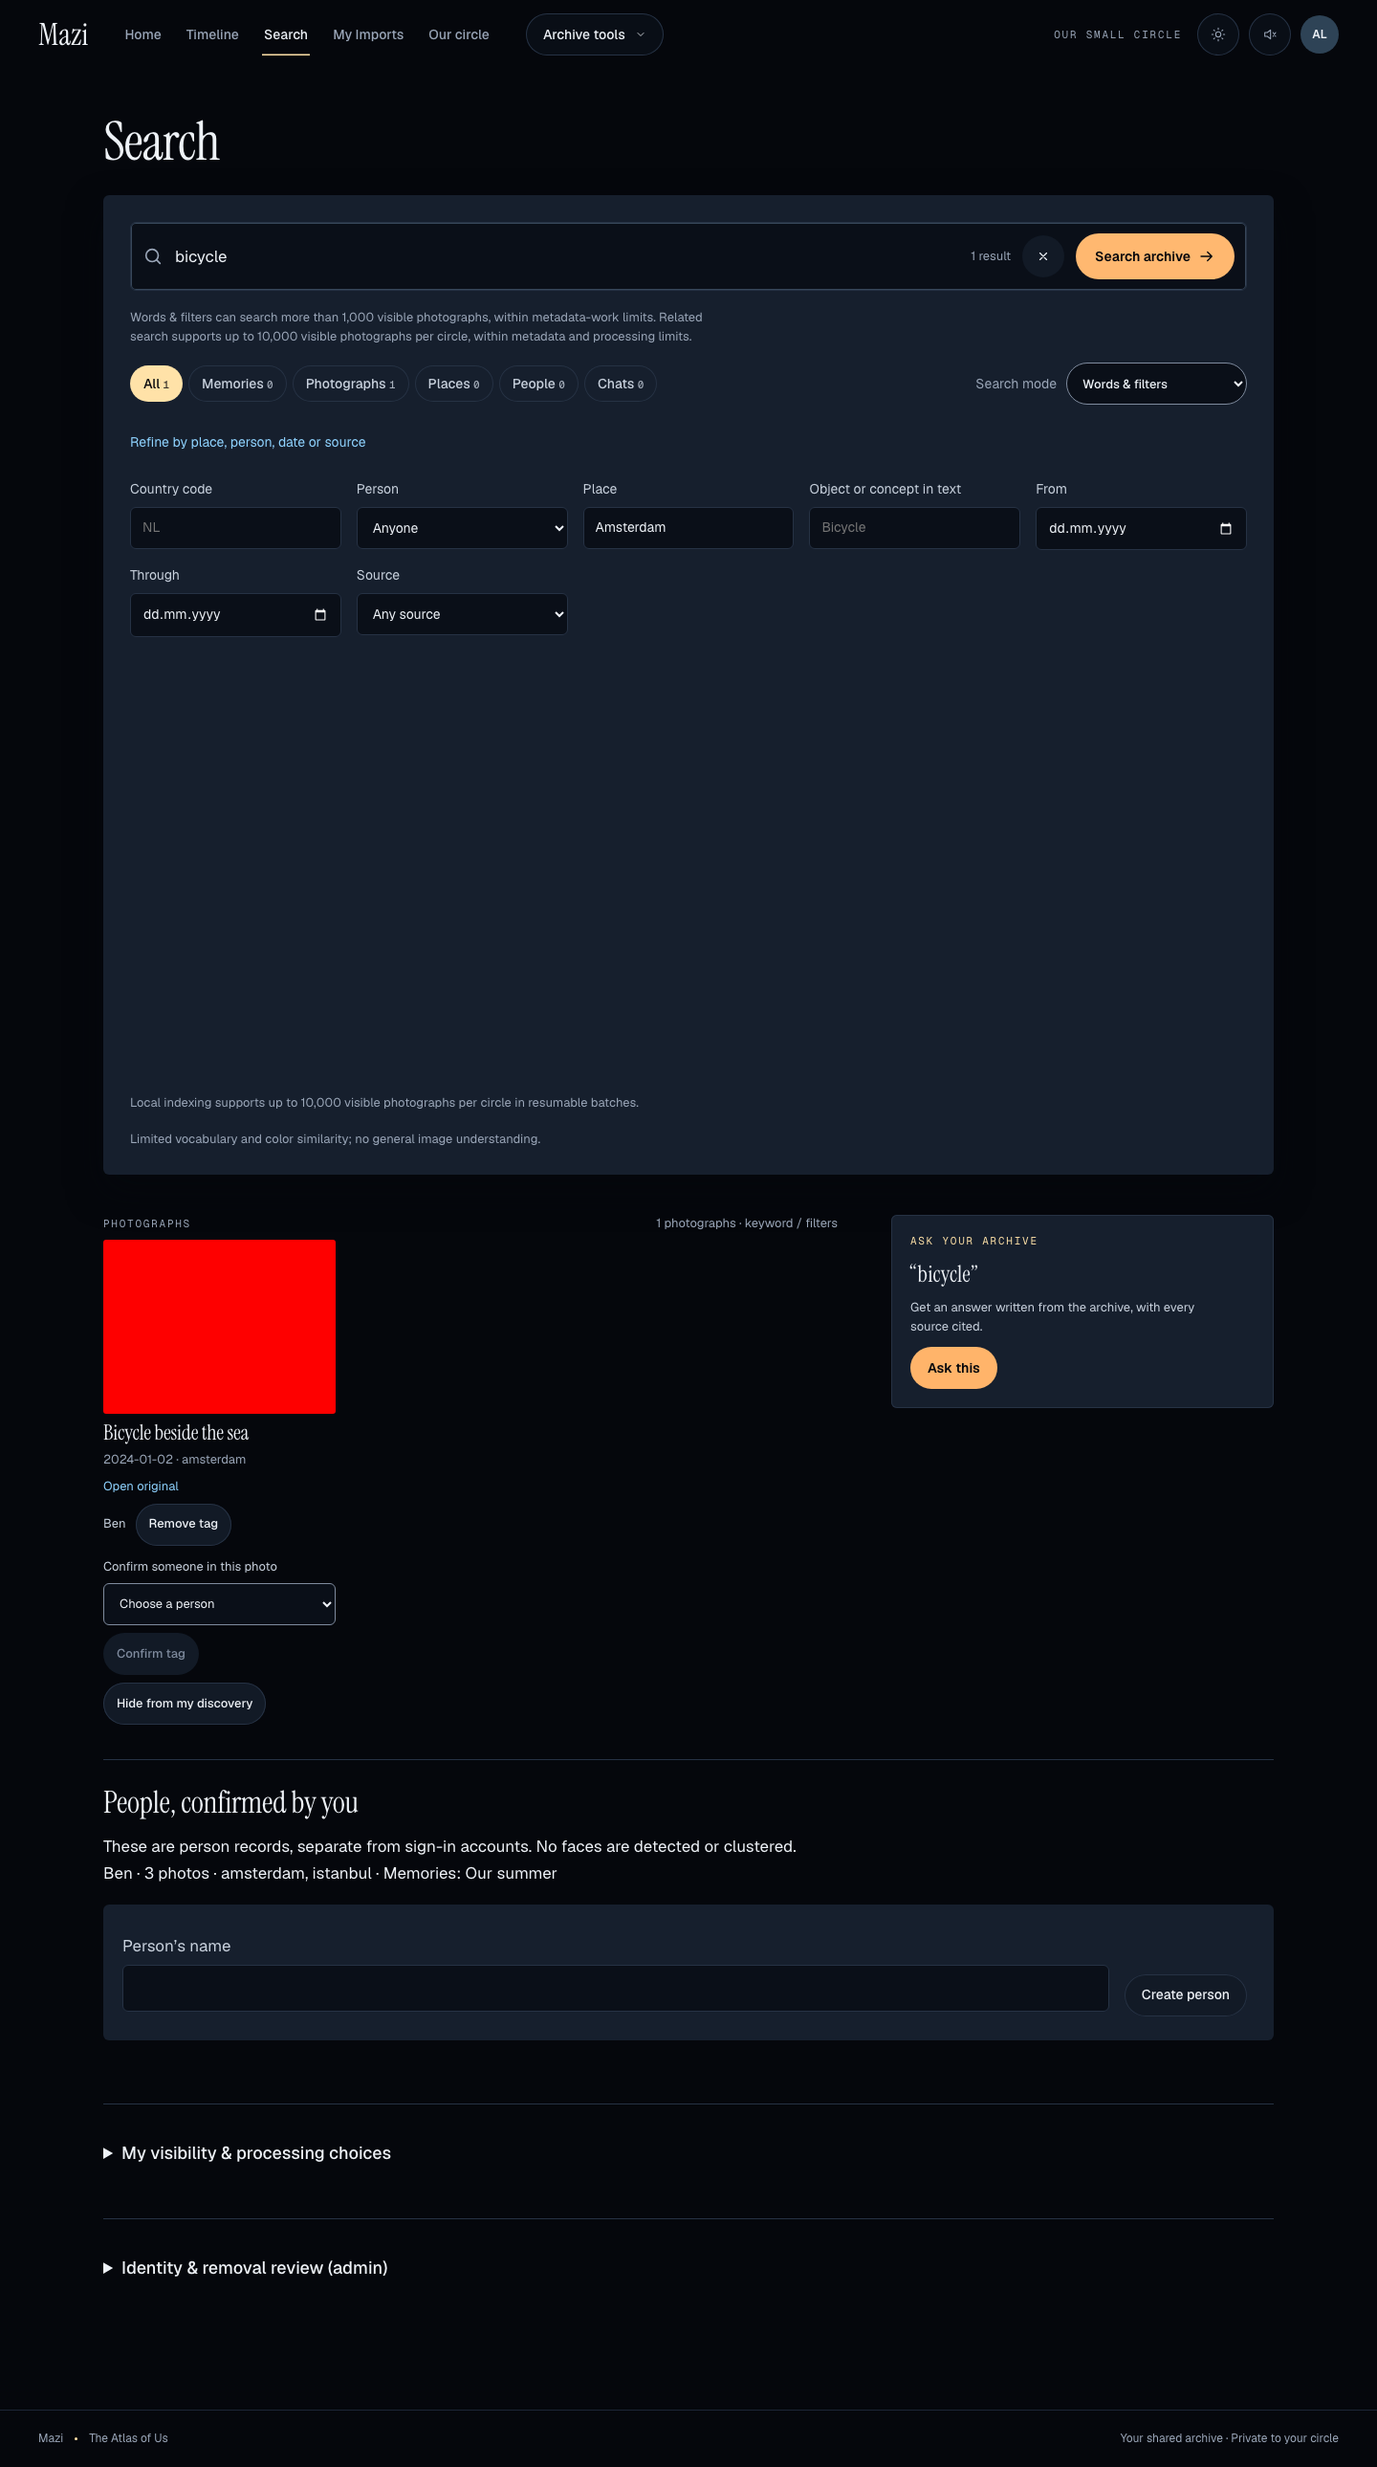
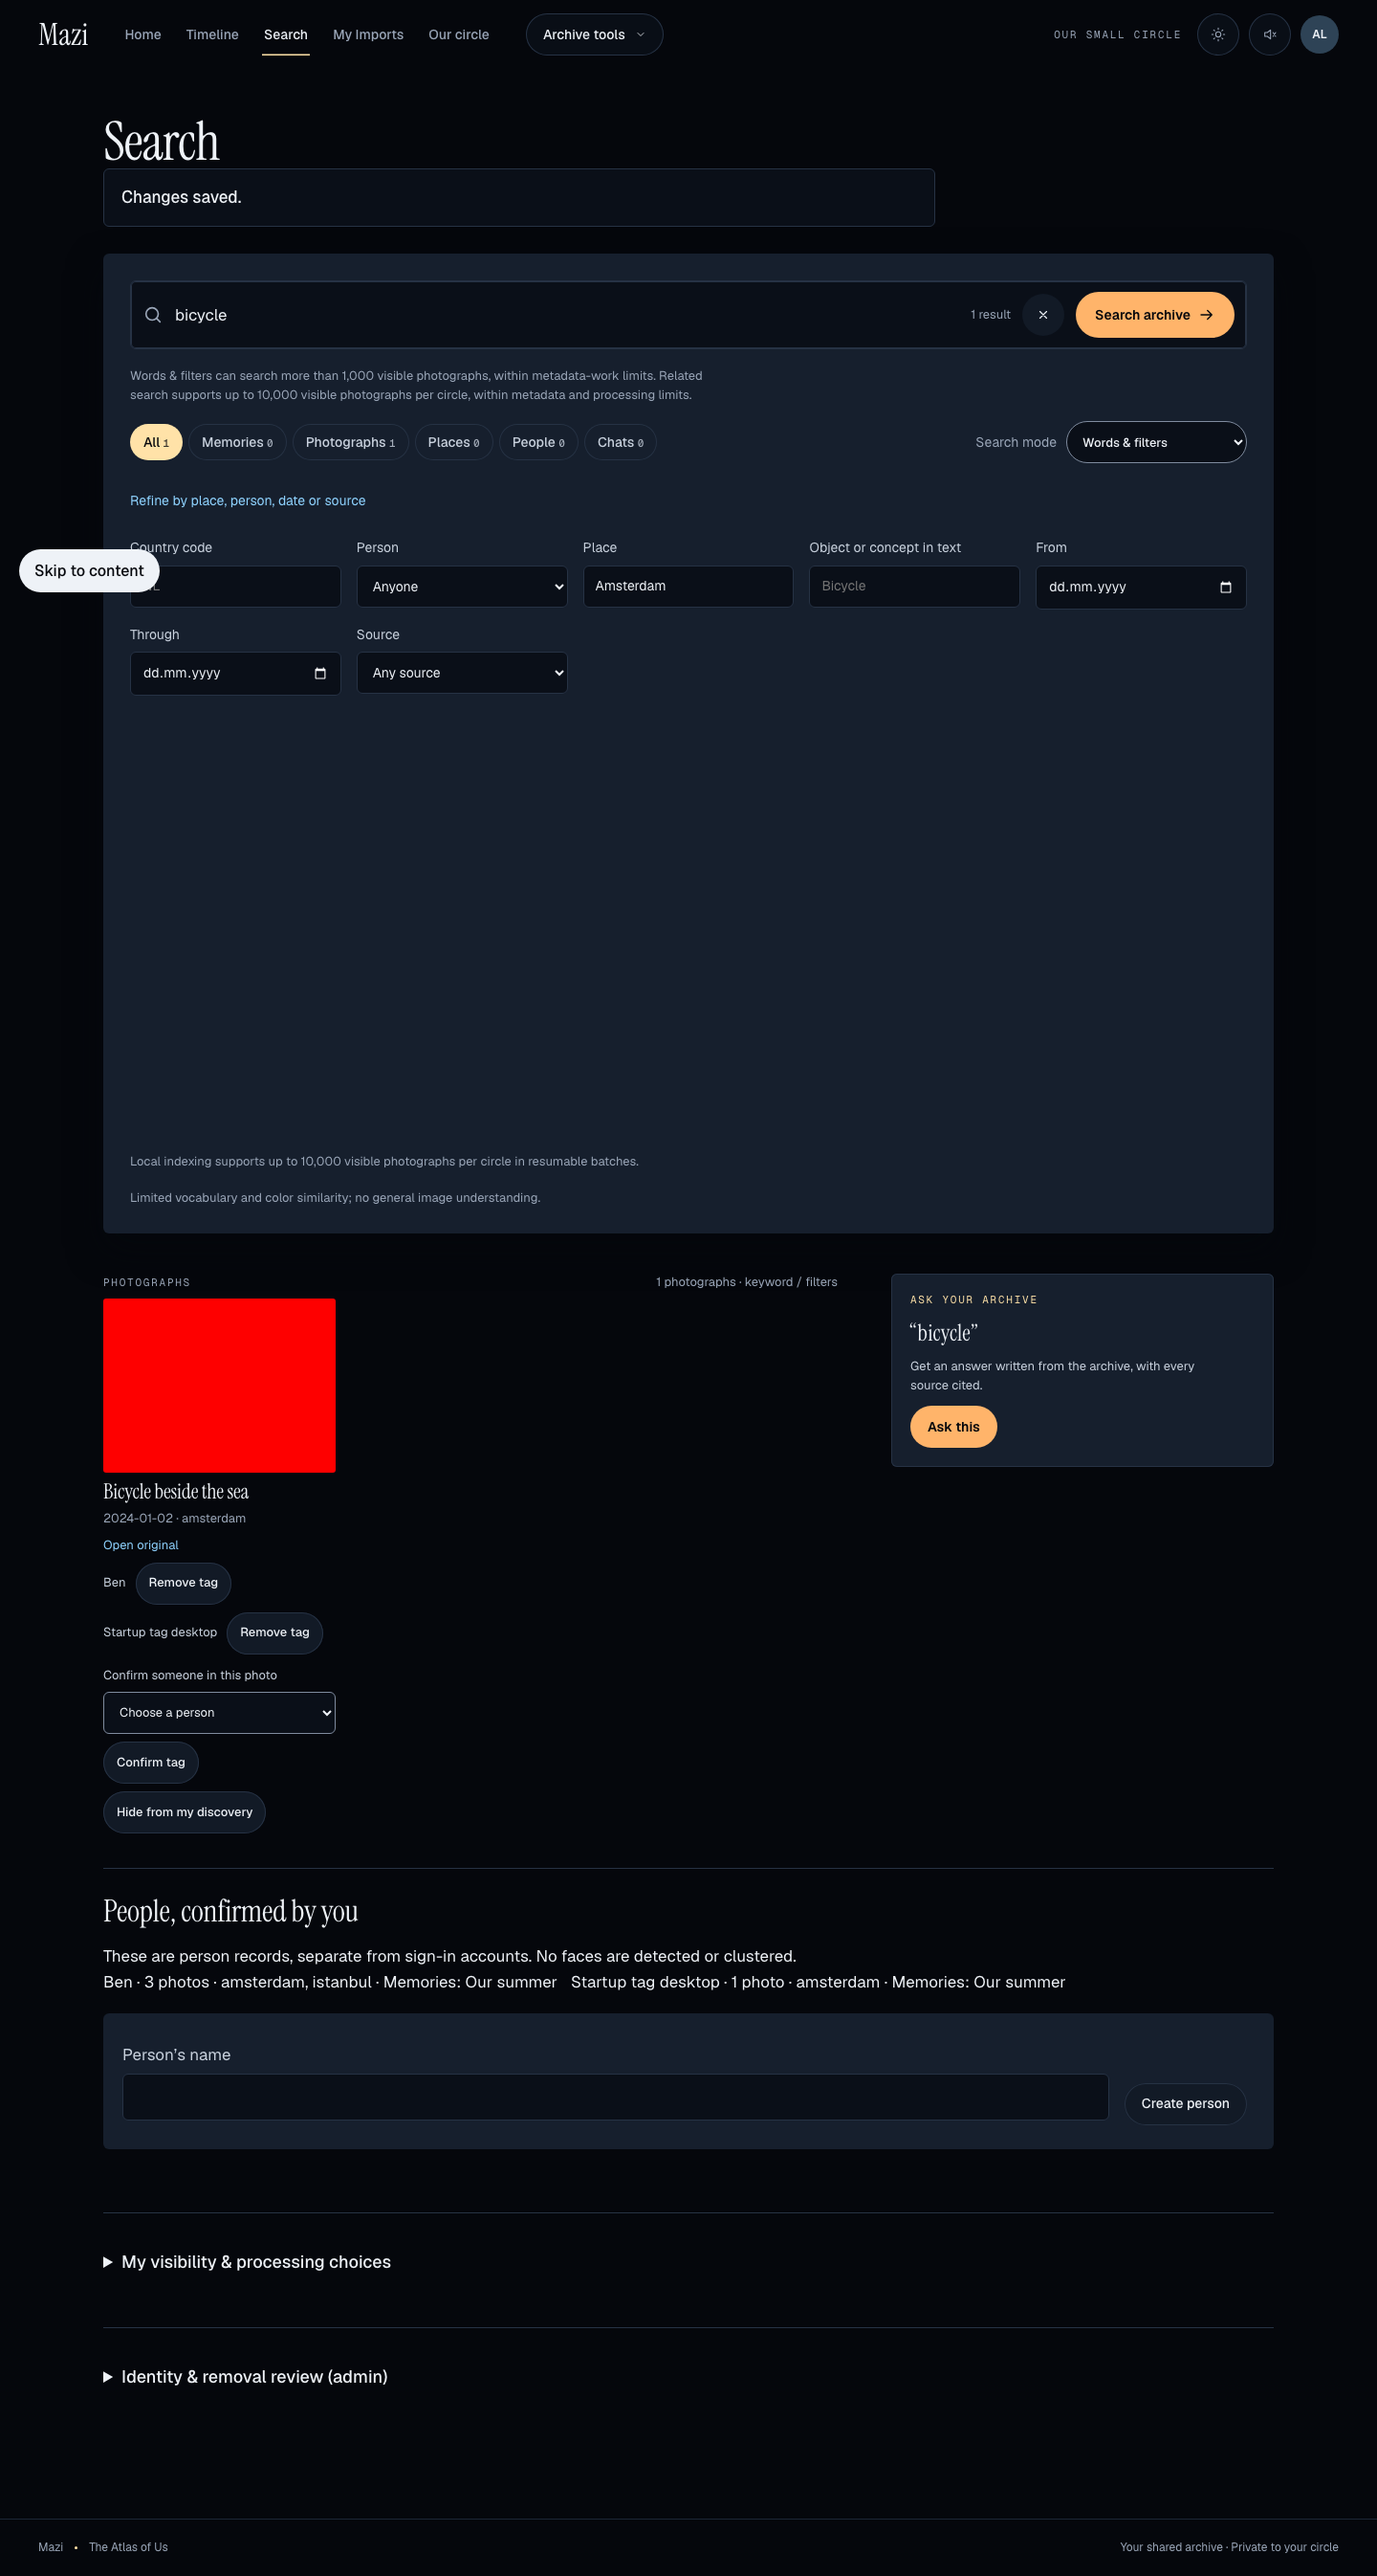
docs(search): record reviewed regressions and confirmed tag evidence

diff --git a/work/poteto/search-startup/VERIFICATION.md b/work/poteto/search-startup/VERIFICATION.md
@@ -12,9 +12,17 @@ This changes frontend request timing only. The local server handles requests seq
 
 Implementation was rebased on `8bddf78`. Environment was macOS, Node 24.15.0, Python 3.14.7, Playwright 1.63.0, and bundled Chromium with desktop Chrome and Pixel 7 emulation. Tests use disposable synthetic archives. Solid-color photographs are fixture data.
 
-- `node --test tests/dom/discovery-keyword.test.mjs tests/dom/search-startup.test.mjs tests/dom/workspace-design.test.mjs` passed 12 tests. New contracts cover stalled context, unchanged query and keyword filters, retry, group changes, denied access, and photo pagination without waiting for optional context.
-- `MAZI_UNIFIED_PORT=8027 npx playwright test --config playwright.unified.config.ts tests/features-redesign.spec.ts -g 'Search photographs'` passed both desktop and phone cases. These exercise real photo search, a held context request, keyword filtering during the hold, failure, retry, and restored People/tagging controls. The production build passed as part of the command.
+- `node --test tests/dom/discovery-keyword.test.mjs tests/dom/search-startup.test.mjs tests/dom/workspace-design.test.mjs` passed 15 tests. New contracts cover stalled context, unchanged query and keyword filters, retry, group changes, denied access, and photo pagination without waiting for optional context.
+- `MAZI_UNIFIED_PORT=8027 npx playwright test --config playwright.unified.config.ts tests/features-redesign.spec.ts -g 'Search photographs'` passed both desktop and phone cases. These exercise real photo search, a held context request, keyword filtering during the hold, failure, retry, and restored People/tagging controls. They create a new synthetic person, submit an actual confirmed tag, and observe the persisted association after refresh. The production build passed as part of the command.
 - `MAZI_DOMAIN_PORT_BASE=18120 MAZI_PYTHON=.venv/bin/python npx playwright test --config tests/browser/playwright.config.ts tests/browser/discovery.spec.ts --project=discovery-desktop --project=discovery-phone -g 'People, combined'` passed both existing Discover journeys, including People, semantic retrieval, tagging removal, consent changes, and denied access cleanup.
 - `npm run typecheck`, `npm run lint`, and `git diff --check` passed. The pre-existing large Globe bundle warning remains.
 
 Inspected representative screenshots are [phone photograph-first search](evidence/phone-search-photographs-ready.png) and [desktop included categories](evidence/desktop-search-context-ready.png). Complete browser artifacts remain local under `work/poteto/unified-app/browser-results/`. Independent review and the full suite remain with the parent workstream.
+
+## Review regressions
+
+Independent review found three missing contracts. `00b3797` exposes the disabled Confirm tag button and stale categories after newer pending or failed searches. `7081b24` assigns the button class that hydration uses to enable it. `cc5d5fd` invalidates remembered totals when each search starts and refreshes categories after every successful page.
+
+`ede7929` exposes a late 403 from an old circle through the real lifecycle. `59d3dd9` aborts optional context when its circle changes or the feature is disposed. The shared fetch wrapper combines caller and lifecycle cancellation and checks it before access-loss side effects, including after reading an error body. Current-circle denial still clears private data.
+
+At code head `59d3dd9`, 20 focused DOM tests passed with `node --test tests/dom/search-startup.test.mjs tests/dom/discovery-keyword.test.mjs tests/dom/archive-hook.test.mjs tests/dom/workspace-design.test.mjs`. Another 60 existing lifecycle, consent, denial, disposal, capacity, and recovery tests passed with `node --test tests/dom/answers.test.mjs tests/dom/memories.test.mjs tests/dom/places-recovery.test.mjs tests/dom/capacity.test.mjs tests/dom/places.test.mjs`. Both native Search tag-write journeys and both native Discover journeys passed again. Typecheck, configured lint, production build, and whitespace checks passed. The representative screenshots were refreshed after these fixes.
